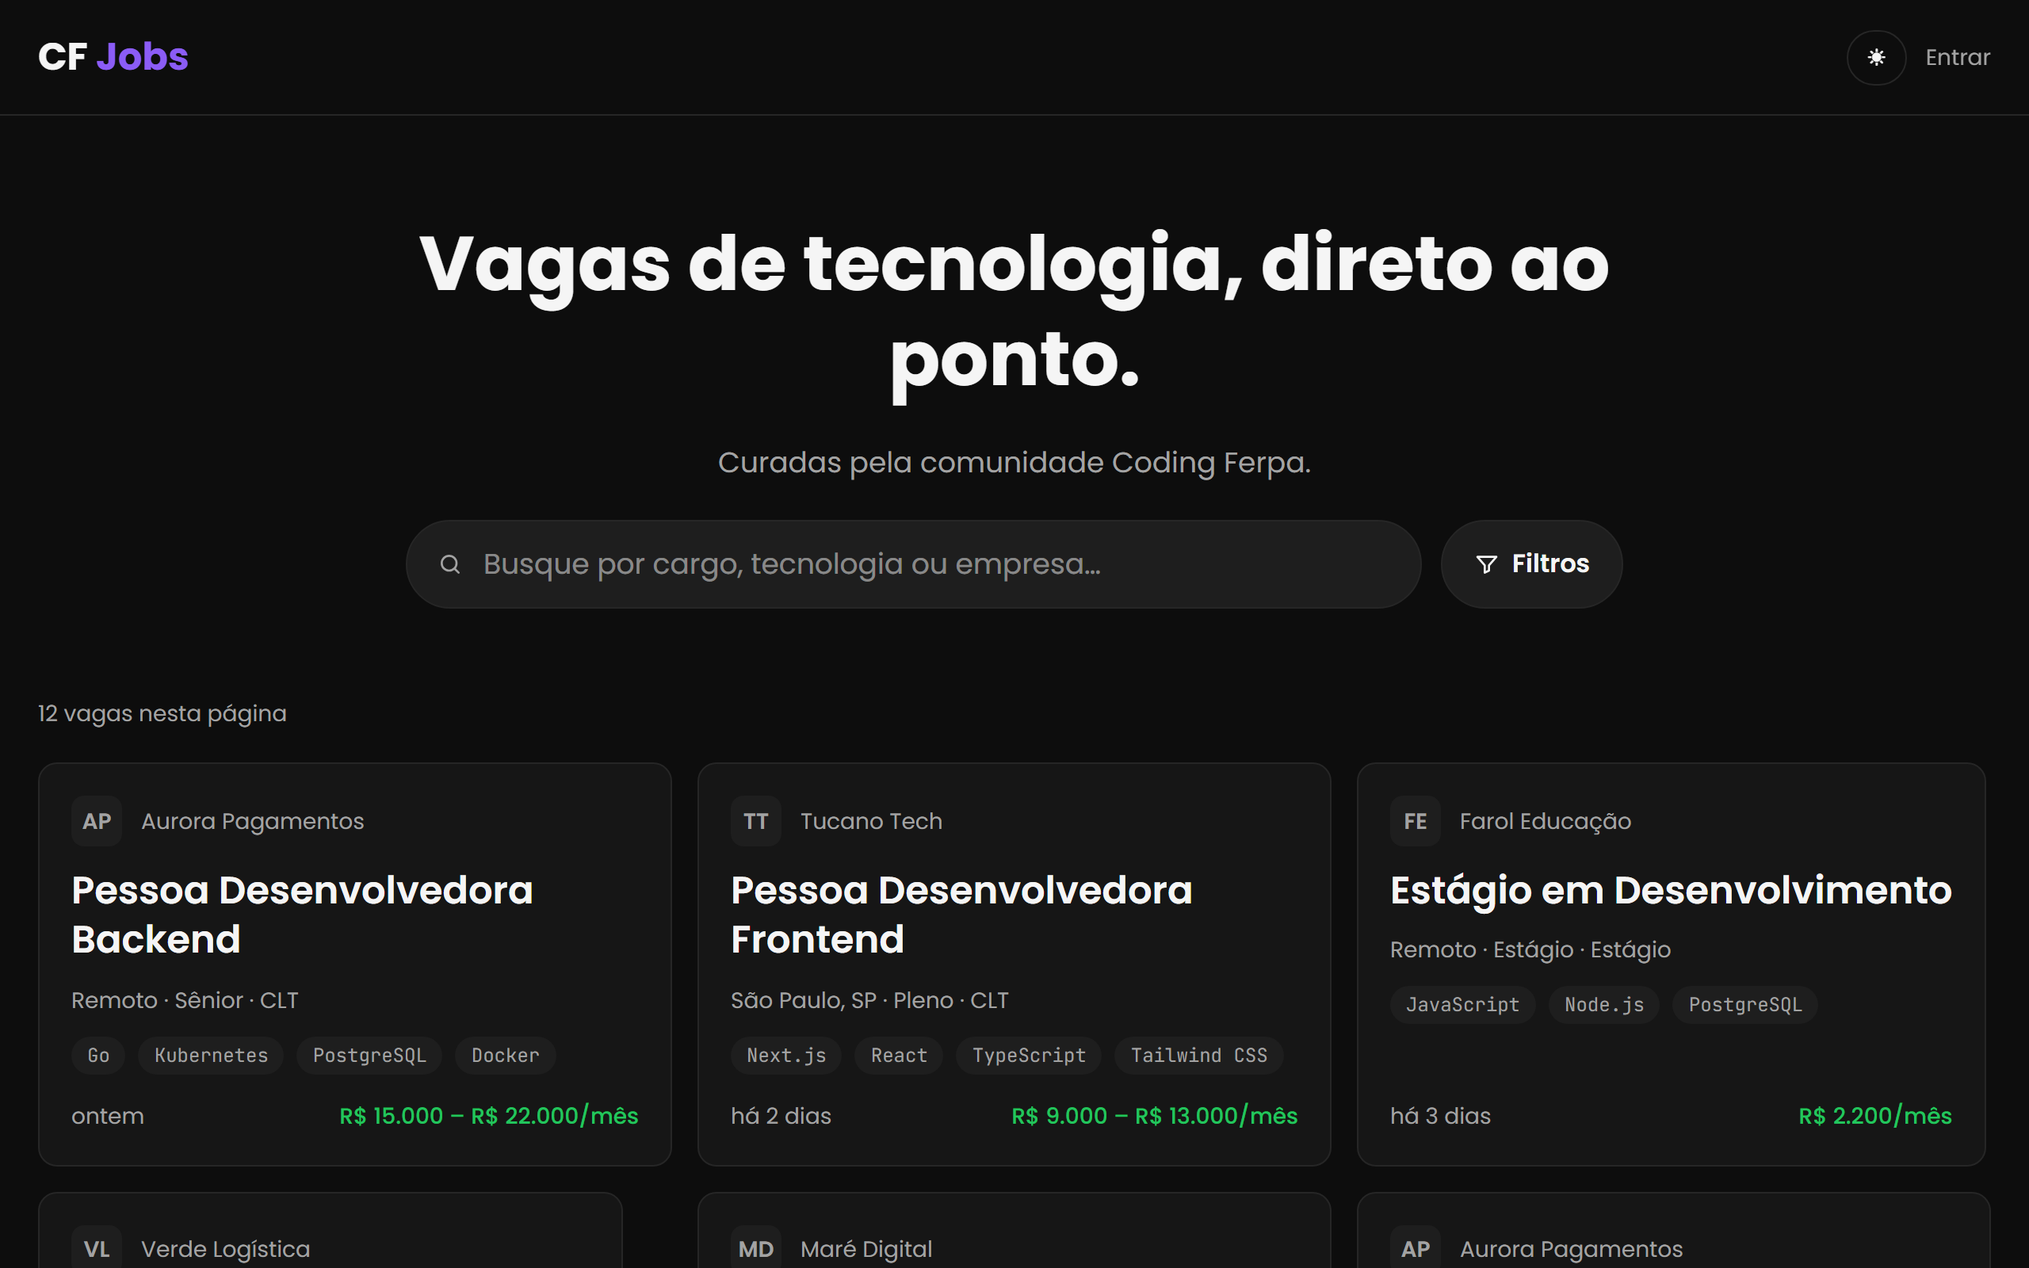
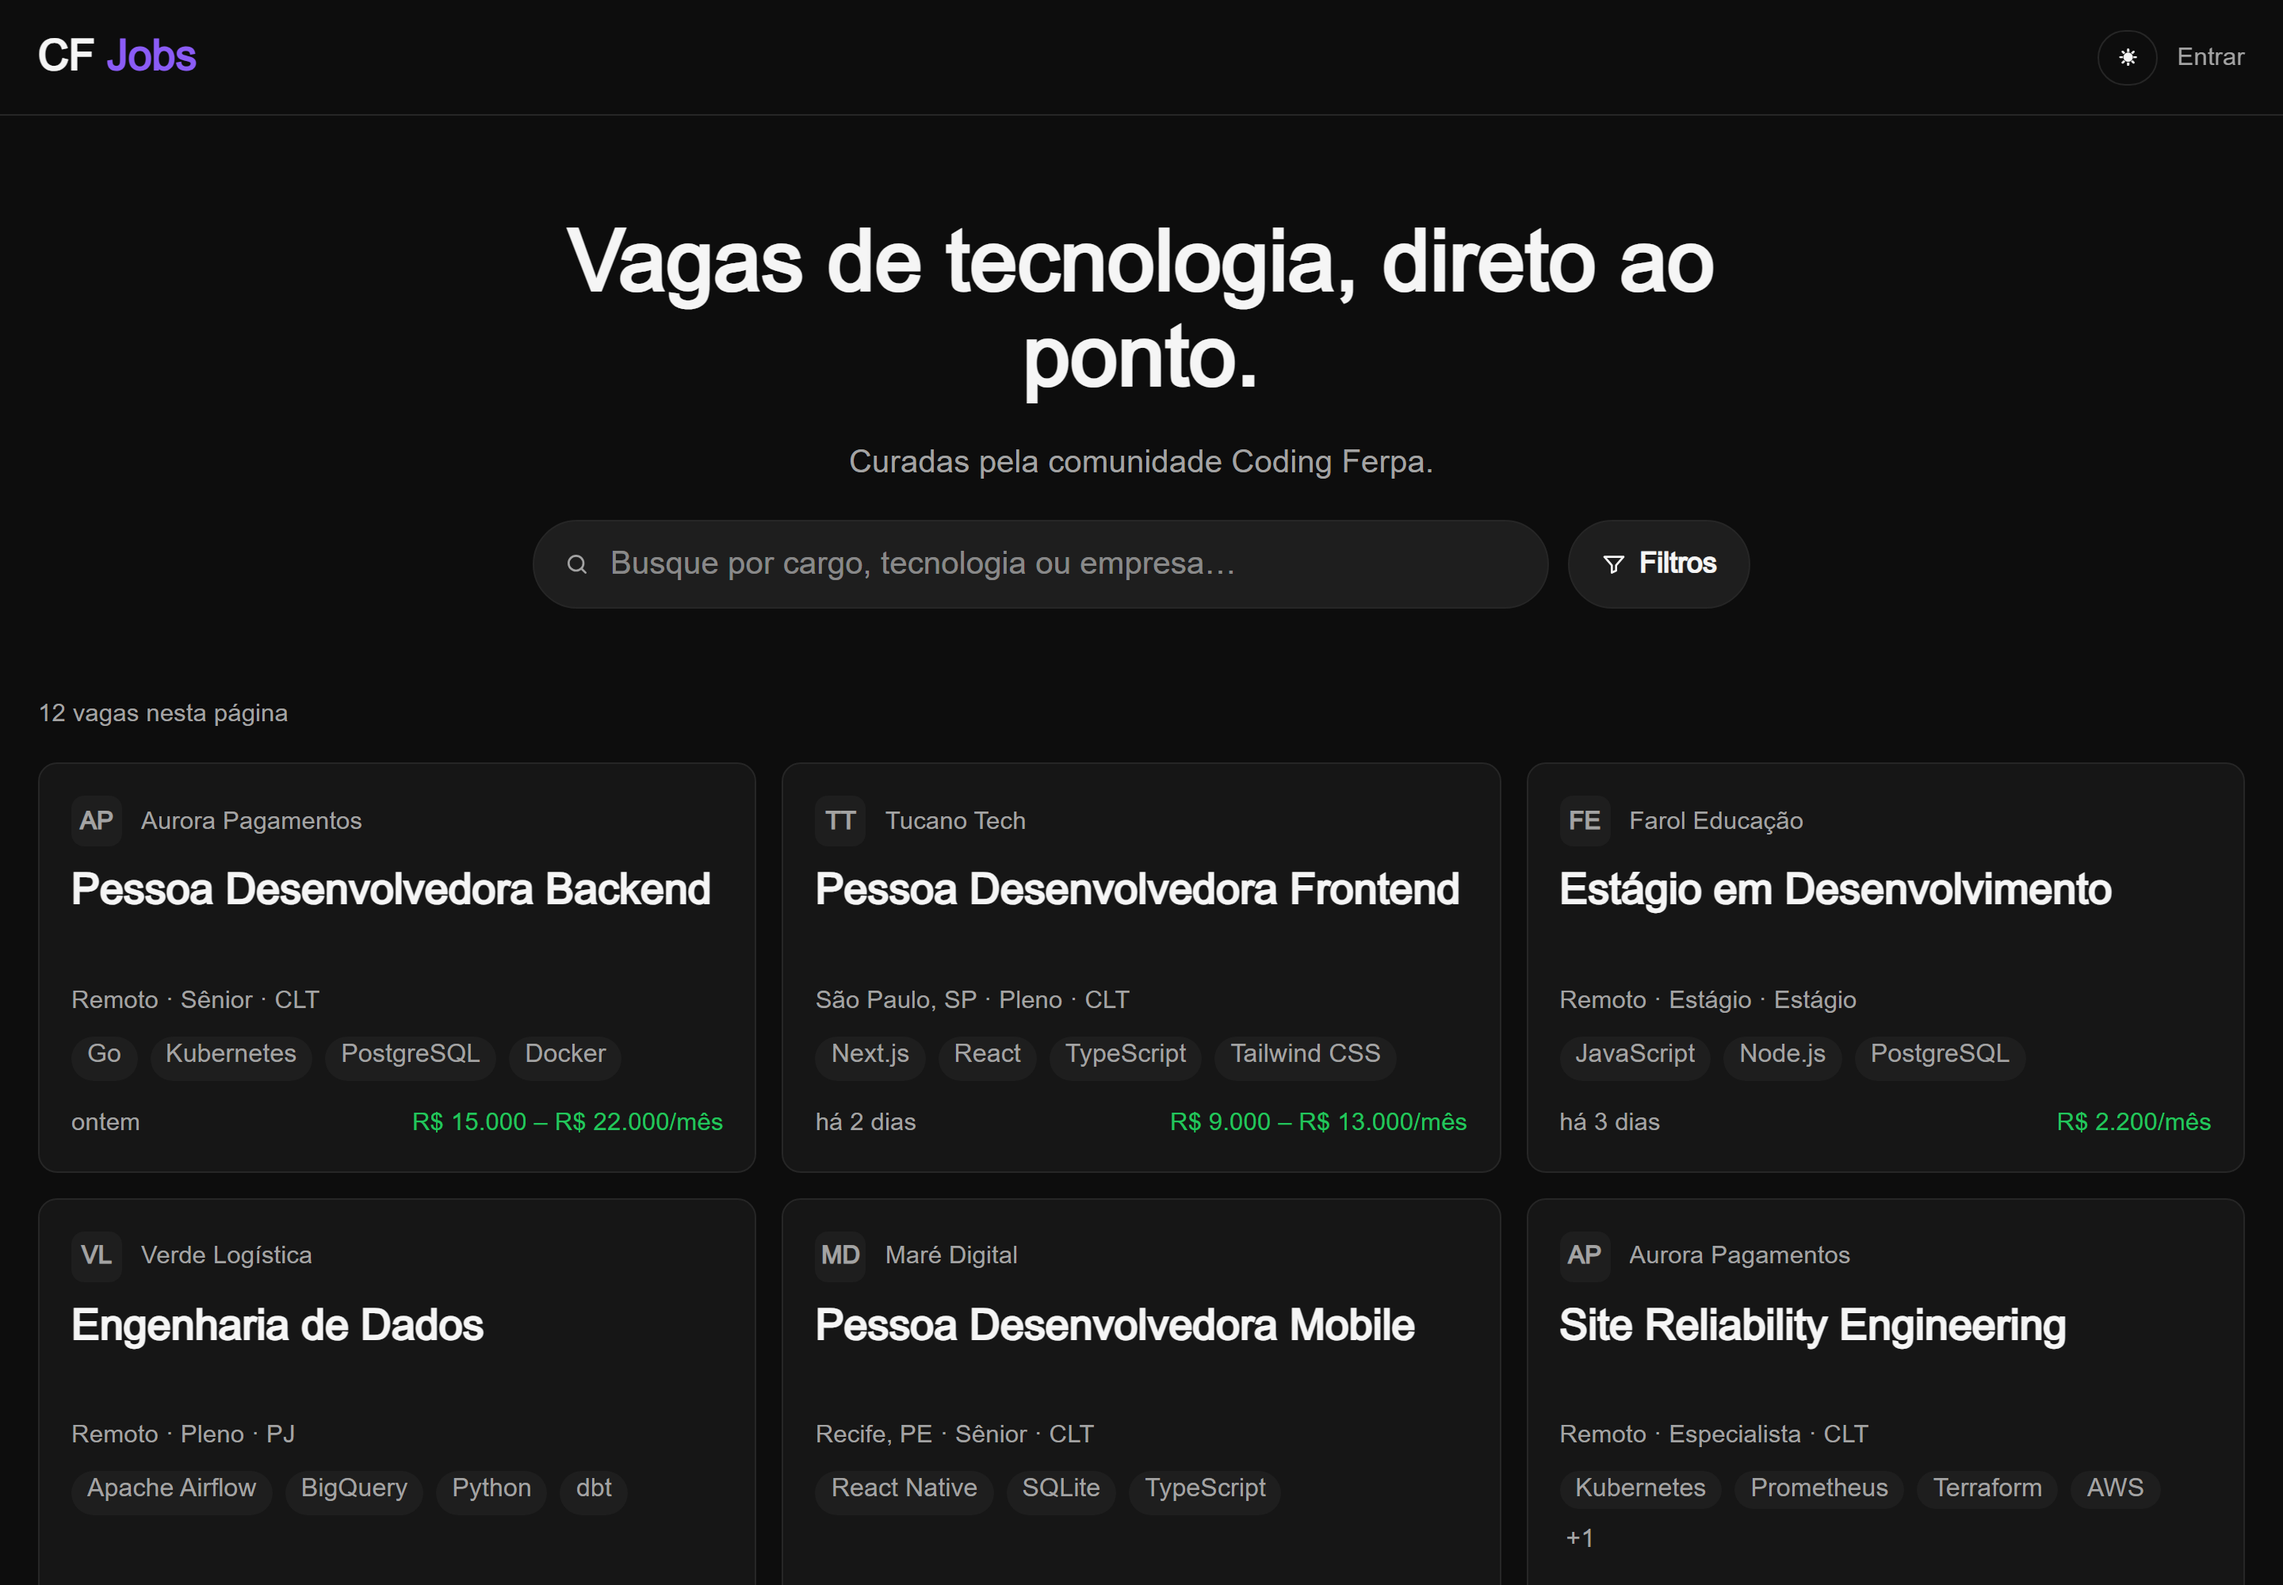
feat(ui): cards de altura uniforme e nova captura do README
Decisão de produto do doc 03: o card preenche a célula do grid (`h-full`),
o título reserva duas linhas mesmo quando cabe em uma, a linha de chips é
renderizada mesmo vazia com a altura de um chip, e o rodapé continua
ancorado na base. Assim vaga de título curto ou sem tecnologia cadastrada
não desalinha a vizinha.

Com o `h-full` o wrapper duplo em volta do card na home e na página de vaga
deixou de ter função e saiu.

Conferido por medição, não a olho: cada linha do grid tem uma única altura
de card na home do seed.

diff --git a/src/components/jobs/job-card.tsx b/src/components/jobs/job-card.tsx
@@ -48,8 +48,11 @@ export function JobCard({ job }: { job: JobListItem }) {
 
   return (
     // O card inteiro é um link único: sem links aninhados, alvo de toque cheio.
+    // `h-full` preenche a célula do grid (doc 03): com as alturas reservadas
+    // abaixo, os cards de uma mesma linha ficam idênticos em altura e com os
+    // rodapés alinhados.
     <Link
-      className="border-border bg-card hover:border-primary hover:shadow-glow focus-visible:border-primary group flex flex-col gap-3 rounded-md border p-5 transition duration-150 hover:-translate-y-0.5"
+      className="border-border bg-card hover:border-primary hover:shadow-glow focus-visible:border-primary group flex h-full flex-col gap-3 rounded-md border p-5 transition duration-150 hover:-translate-y-0.5"
       href={`/vagas/${job.slug}`}
     >
       <div className="flex items-center gap-3">
@@ -72,29 +75,32 @@ export function JobCard({ job }: { job: JobListItem }) {
         ) : null}
       </div>
 
-      <h3 className="text-h3 line-clamp-2 font-semibold">{job.title}</h3>
+      {/* Duas linhas sempre: `line-clamp-2` corta o que passa, e `min-h-[2lh]`
+          segura o espaço quando o título cabe em uma só — sem isso o card de
+          título curto sobe tudo o que vem abaixo. */}
+      <h3 className="text-h3 line-clamp-2 min-h-[2lh] font-semibold">{job.title}</h3>
 
       {metadados.length > 0 ? (
         <p className="text-caption text-muted-foreground">{metadados.join(' · ')}</p>
       ) : null}
 
-      {chips.length > 0 ? (
-        <ul className="flex flex-wrap gap-2">
-          {chips.map((tecnologia) => (
-            <li
-              className="bg-surface text-muted-foreground rounded-full px-2.5 py-1 font-mono text-xs"
-              key={tecnologia.slug}
-            >
-              {tecnologia.label}
-            </li>
-          ))}
-          {restantes > 0 ? (
-            <li className="text-muted-foreground px-1 py-1 font-mono text-xs">
-              +{restantes}
-            </li>
-          ) : null}
-        </ul>
-      ) : null}
+      {/* A lista é renderizada mesmo vazia, com a altura de uma linha de chip
+          reservada: vaga sem tecnologia cadastrada não desalinha a vizinha. */}
+      <ul className="flex min-h-[1.75rem] flex-wrap gap-2">
+        {chips.map((tecnologia) => (
+          <li
+            className="bg-surface text-muted-foreground rounded-full px-2.5 py-1 font-mono text-xs"
+            key={tecnologia.slug}
+          >
+            {tecnologia.label}
+          </li>
+        ))}
+        {restantes > 0 ? (
+          <li className="text-muted-foreground px-1 py-1 font-mono text-xs">
+            +{restantes}
+          </li>
+        ) : null}
+      </ul>
 
       <div className="text-caption mt-auto flex items-center justify-between gap-3 pt-1">
         <span className="text-muted-foreground">

diff --git a/src/app/(public)/page.tsx b/src/app/(public)/page.tsx
@@ -121,10 +121,10 @@ export default async function HomePage({
           // Sem a sidebar, a grade ganha a largura inteira do container.
           <ul className="grid gap-4 sm:grid-cols-2 lg:grid-cols-3 2xl:grid-cols-4">
             {lista.jobs.map((job) => (
-              <li className="flex" key={job.slug}>
-                <div className="flex w-full">
-                  <JobCard job={job} />
-                </div>
+              // O card se estica sozinho com `h-full`; a célula do grid não
+              // precisa de wrapper nenhum.
+              <li key={job.slug}>
+                <JobCard job={job} />
               </li>
             ))}
           </ul>

diff --git a/src/app/(public)/vagas/[slug]/page.tsx b/src/app/(public)/vagas/[slug]/page.tsx
@@ -216,10 +216,8 @@ export default async function JobPage({ params }: { params: Promise<{ slug: stri
           <h2 className="text-h3 font-semibold">Vagas semelhantes</h2>
           <ul className="grid gap-4 sm:grid-cols-2 lg:grid-cols-3">
             {semelhantes.map((semelhante) => (
-              <li className="flex" key={semelhante.slug}>
-                <div className="flex w-full">
-                  <JobCard job={semelhante} />
-                </div>
+              <li key={semelhante.slug}>
+                <JobCard job={semelhante} />
               </li>
             ))}
           </ul>
